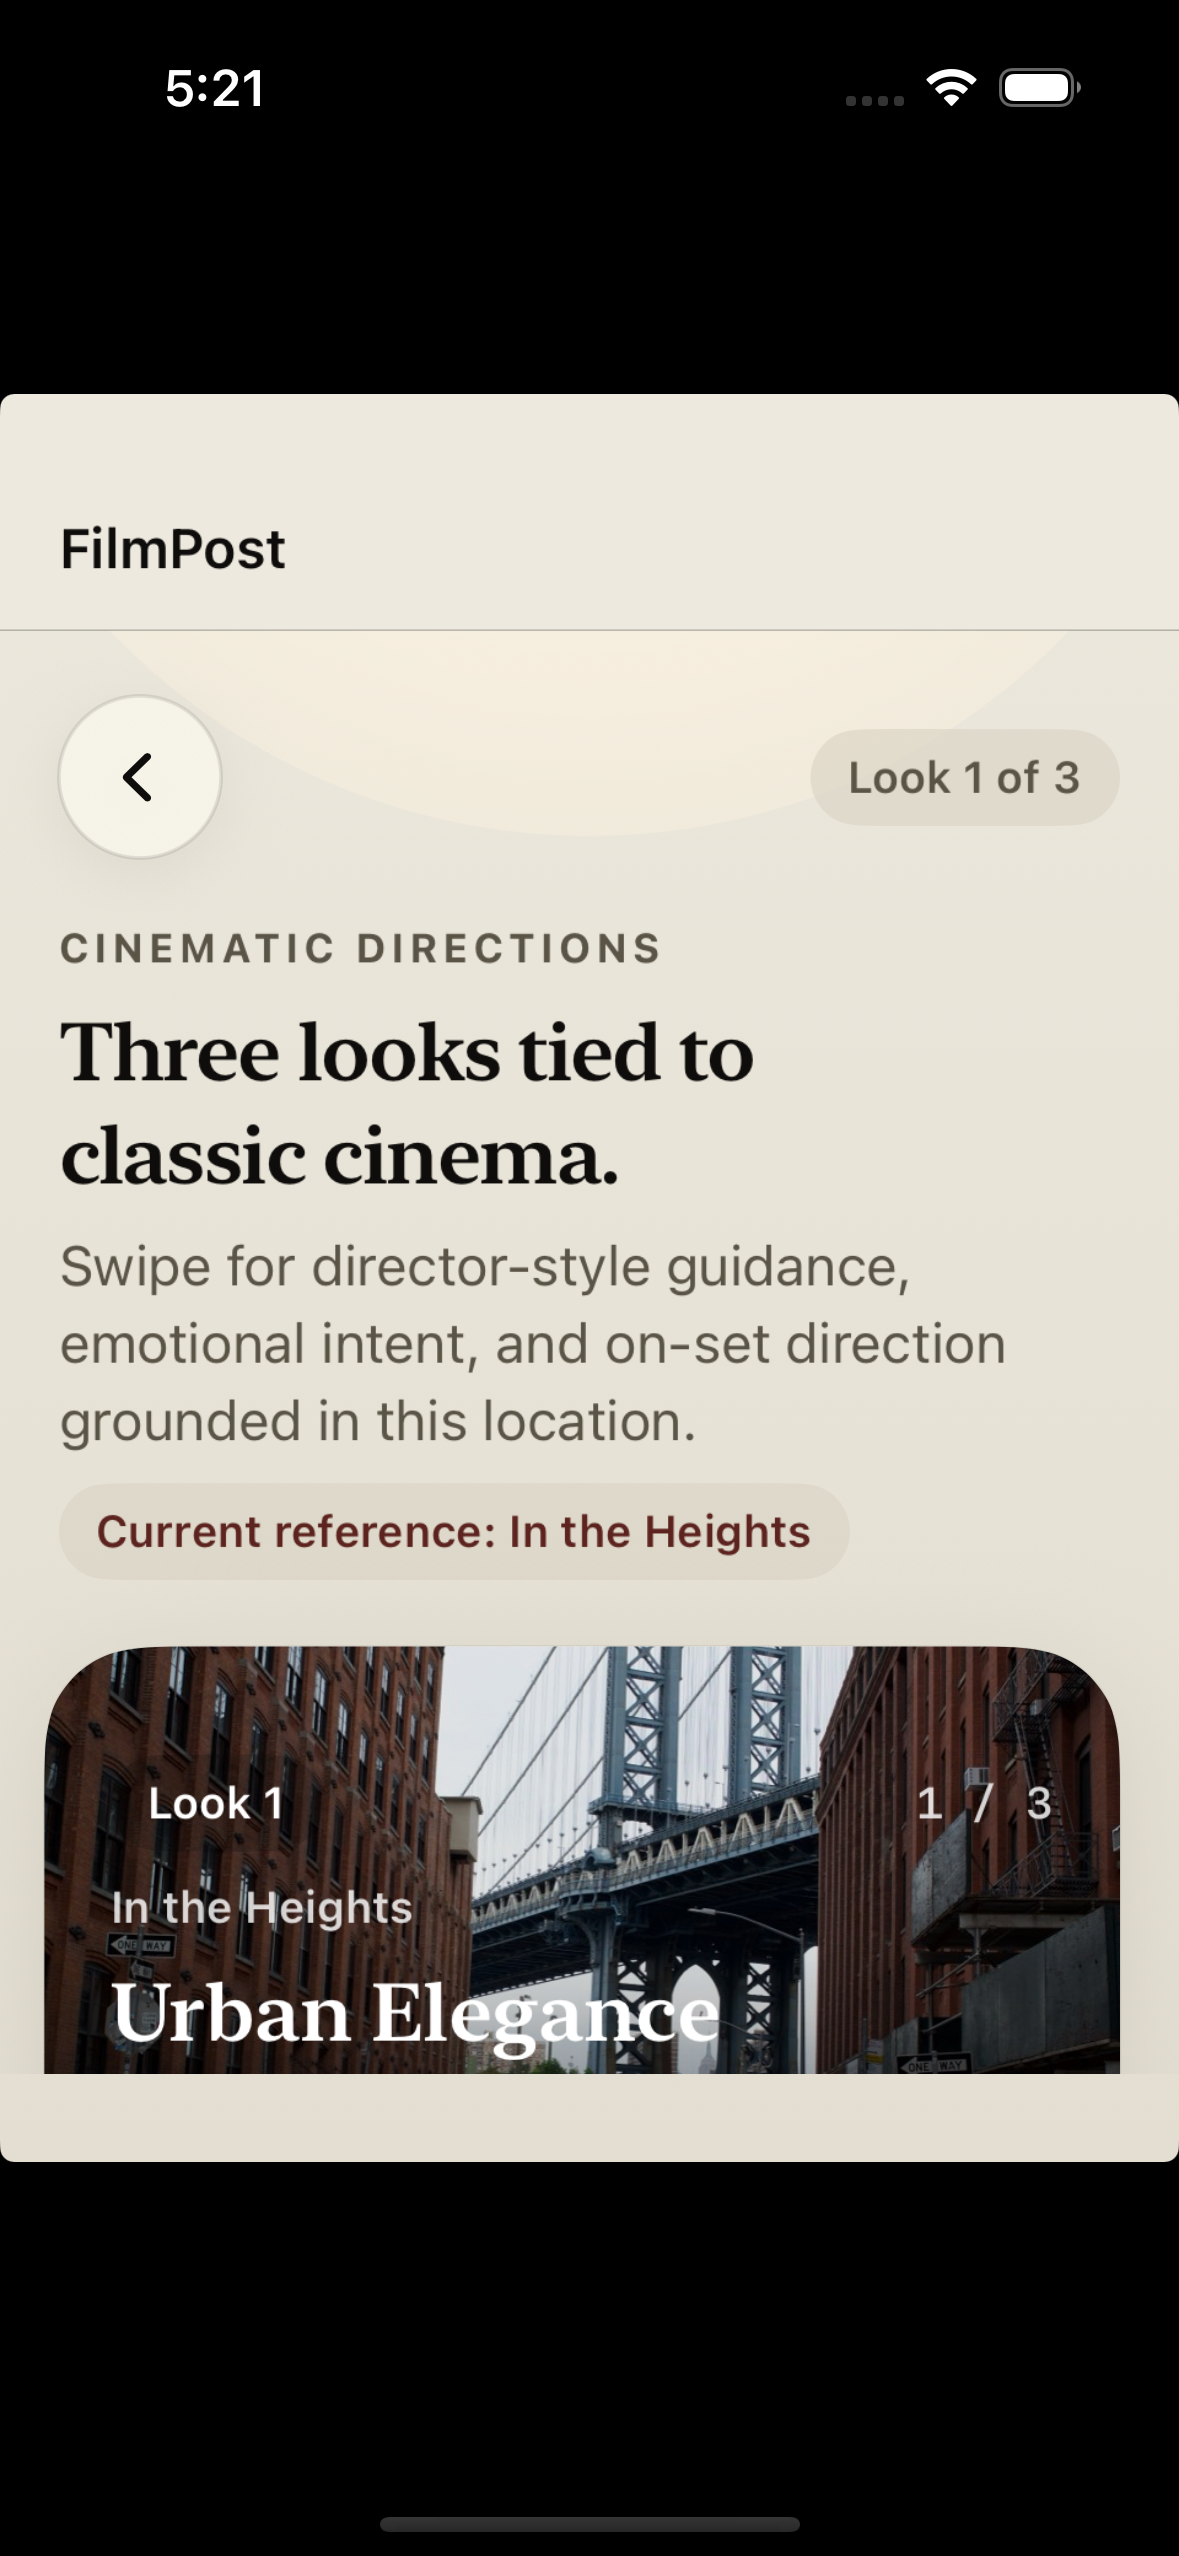
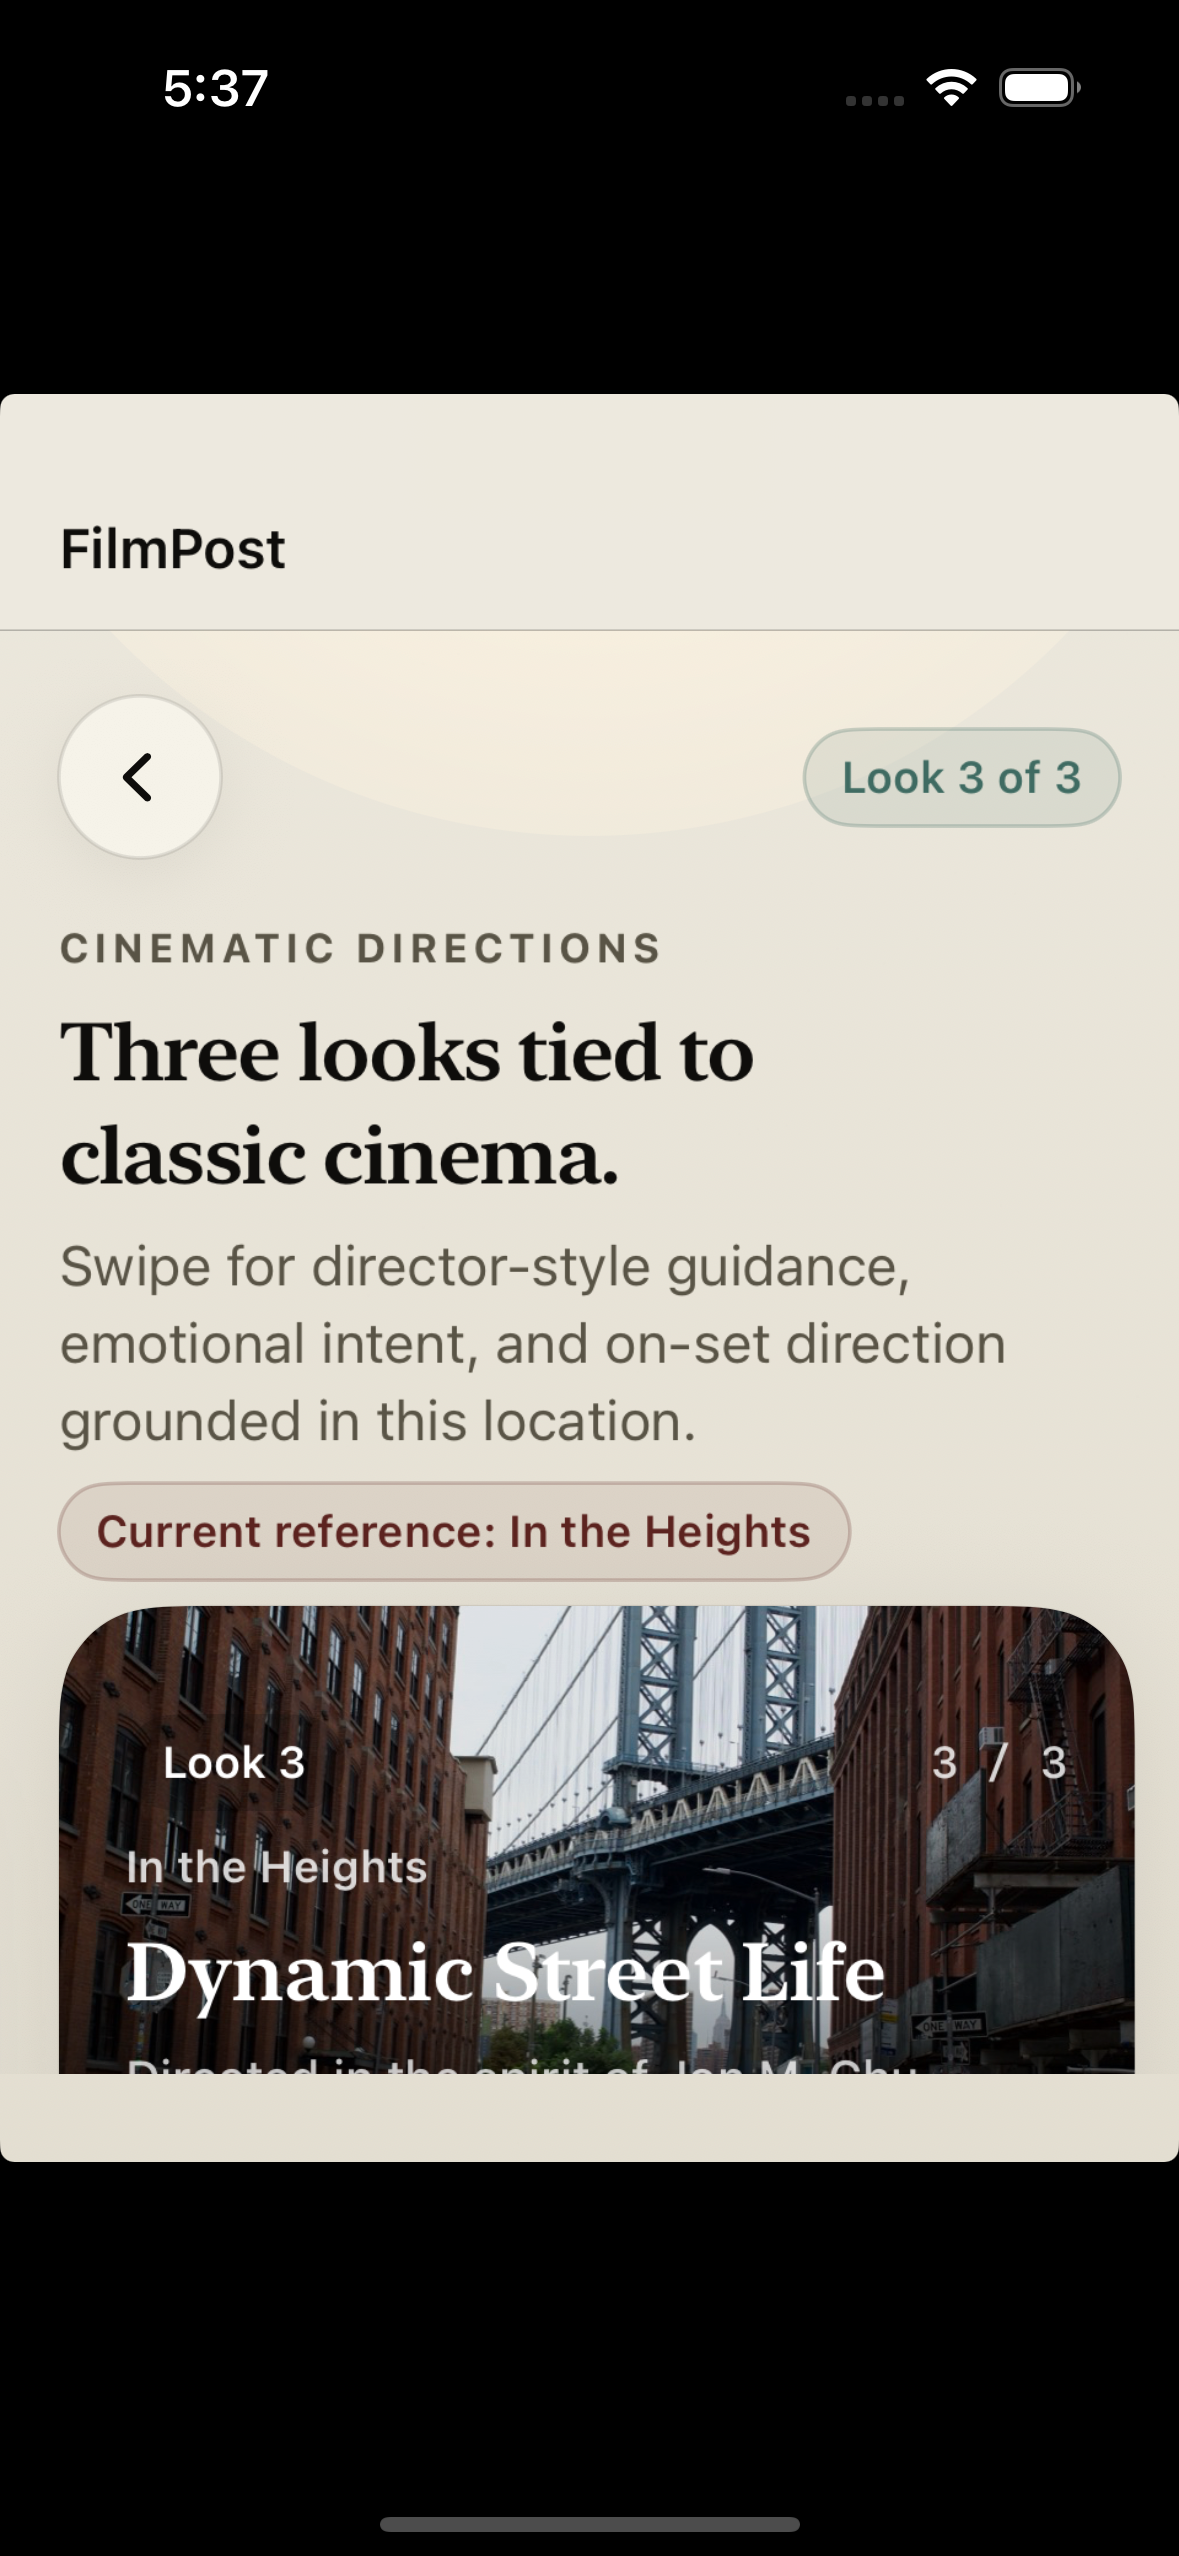
Add verdigris accent for atmosphere/setting cues (#2)
Introduce a single cool counterpoint (verdigris/sage) to break up the
warm-monotone palette without crowding it. Used semantically:

- Atmosphere/setting → verdigris (mood pill, scene anchor pill)
- Director/film/emotional → existing warm rust + amber
- Loading: pending → active (amber) → complete (verdigris checkmark)
- Results "Look X of N" → verdigris pill; "Current reference" → rust

Refresh README screenshots to show the new color treatment in context.

diff --git a/ios/FilmPost/Features/Results/ResultsView.swift b/ios/FilmPost/Features/Results/ResultsView.swift
@@ -60,12 +60,16 @@ struct ResultsView: View {
                let index = analysis.recommendations.firstIndex(where: { $0.id == selectedID }) {
                 Text("Look \(index + 1) of \(analysis.recommendations.count)")
                     .font(FilmPostType.label(.caption, weight: .semibold))
-                    .foregroundStyle(FilmPostTheme.slate)
+                    .foregroundStyle(FilmPostTheme.verdigris)
                     .padding(.horizontal, 10)
                     .padding(.vertical, 6)
                     .background(
                         Capsule(style: .continuous)
-                            .fill(FilmPostTheme.panel.opacity(0.58))
+                            .fill(FilmPostTheme.verdigris.opacity(0.10))
+                            .overlay(
+                                Capsule(style: .continuous)
+                                    .stroke(FilmPostTheme.verdigris.opacity(0.25), lineWidth: 1)
+                            )
                     )
             }
         }
@@ -96,7 +100,11 @@ struct ResultsView: View {
                     .padding(.vertical, 6)
                     .background(
                         Capsule(style: .continuous)
-                            .fill(FilmPostTheme.panel.opacity(0.58))
+                            .fill(FilmPostTheme.rust.opacity(0.08))
+                            .overlay(
+                                Capsule(style: .continuous)
+                                    .stroke(FilmPostTheme.rust.opacity(0.22), lineWidth: 1)
+                            )
                     )
             }
         }

diff --git a/ios/FilmPost/Features/Cinema/CinemaDetailView.swift b/ios/FilmPost/Features/Cinema/CinemaDetailView.swift
@@ -398,11 +398,20 @@ struct FilmDetailView: View {
             Text("🎨").font(.system(size: 13))
             Text(context.filmMood)
                 .font(FilmPostType.label(.caption2, weight: .semibold))
-                .foregroundStyle(FilmPostTheme.ink)
+                .foregroundStyle(FilmPostTheme.verdigris)
+                .textCase(.uppercase)
+                .tracking(FilmPostType.labelTracking)
         }
         .padding(.horizontal, 14)
         .padding(.vertical, 8)
-        .background(Capsule(style: .continuous).fill(FilmPostTheme.mist))
+        .background(
+            Capsule(style: .continuous)
+                .fill(FilmPostTheme.verdigris.opacity(0.10))
+                .overlay(
+                    Capsule(style: .continuous)
+                        .stroke(FilmPostTheme.verdigris.opacity(0.28), lineWidth: 1)
+                )
+        )
     }
 
     private func infoCard(emoji: String, kicker: String, text: String) -> some View {

diff --git a/ios/FilmPost/Features/Results/RecommendationCard.swift b/ios/FilmPost/Features/Results/RecommendationCard.swift
@@ -234,12 +234,16 @@ private struct CinemaAnchorCard: View {
 
             Text(cinemaReference.sceneAnchor)
                 .font(FilmPostType.label(.caption, weight: .semibold))
-                .foregroundStyle(FilmPostTheme.ink)
+                .foregroundStyle(FilmPostTheme.verdigris)
                 .padding(.horizontal, 10)
                 .padding(.vertical, 6)
                 .background(
                     Capsule(style: .continuous)
-                        .fill(FilmPostTheme.mist)
+                        .fill(FilmPostTheme.verdigris.opacity(0.10))
+                        .overlay(
+                            Capsule(style: .continuous)
+                                .stroke(FilmPostTheme.verdigris.opacity(0.25), lineWidth: 1)
+                        )
                 )
 
             VStack(alignment: .leading, spacing: 8) {

diff --git a/ios/FilmPost/DesignSystem/Theme.swift b/ios/FilmPost/DesignSystem/Theme.swift
@@ -25,6 +25,11 @@ enum FilmPostTheme {
     static let amber  = dynamicColor(light: 0xA06A2C, dark: 0xCE9651)
     static let rust   = dynamicColor(light: 0x5C231F, dark: 0xB75D4B)
 
+    /// Cool counterpoint — verdigris/sage for "atmosphere" and "mood" tones,
+    /// thought of as aged copper or film leader. Use sparingly to balance
+    /// the dominant warm palette.
+    static let verdigris = dynamicColor(light: 0x3F6B62, dark: 0x88B6AB)
+
     // Depth.
     static let shadow = Color.black.opacity(0.08)
 

diff --git a/ios/FilmPost/Features/Results/AnalysisLoadingView.swift b/ios/FilmPost/Features/Results/AnalysisLoadingView.swift
@@ -254,7 +254,7 @@ private struct LoadingStep: View {
         case .complete:
             ZStack {
                 Circle()
-                    .fill(FilmPostTheme.ink)
+                    .fill(FilmPostTheme.verdigris)
                     .frame(width: 20, height: 20)
                 Image(systemName: "checkmark")
                     .font(.system(size: 9, weight: .bold))
